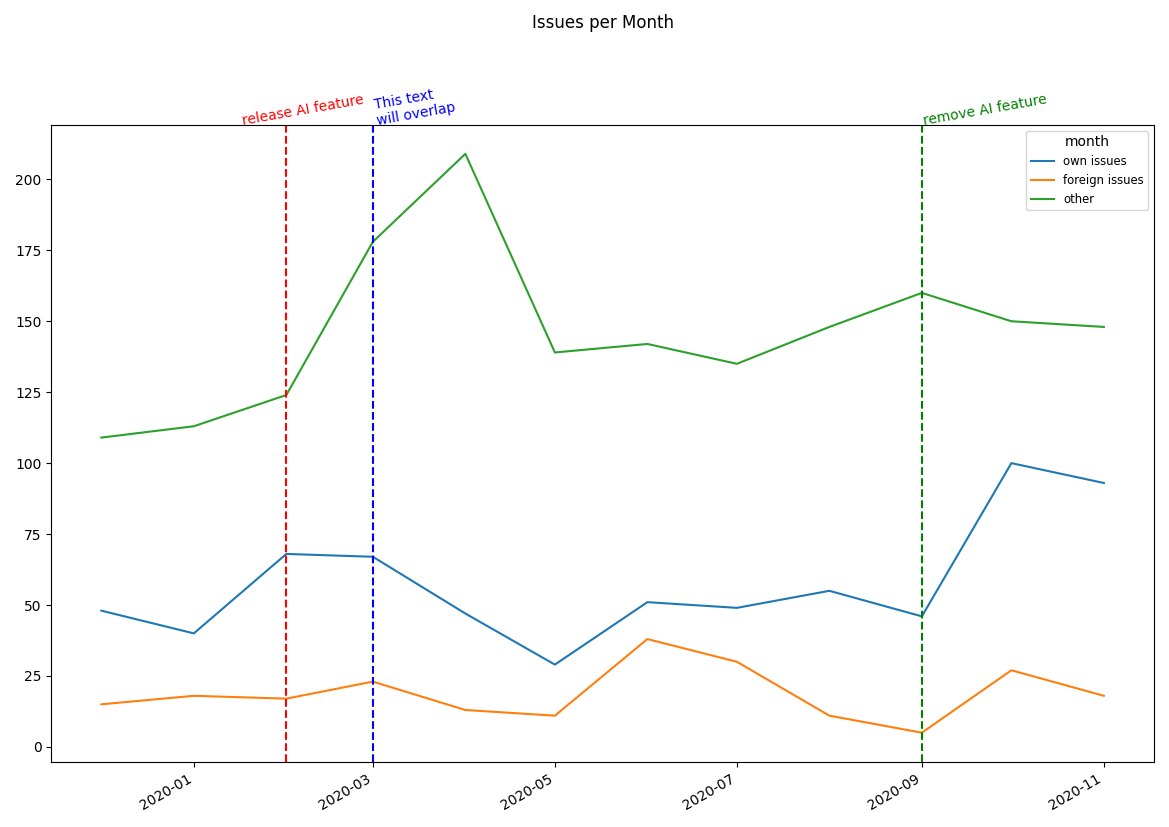
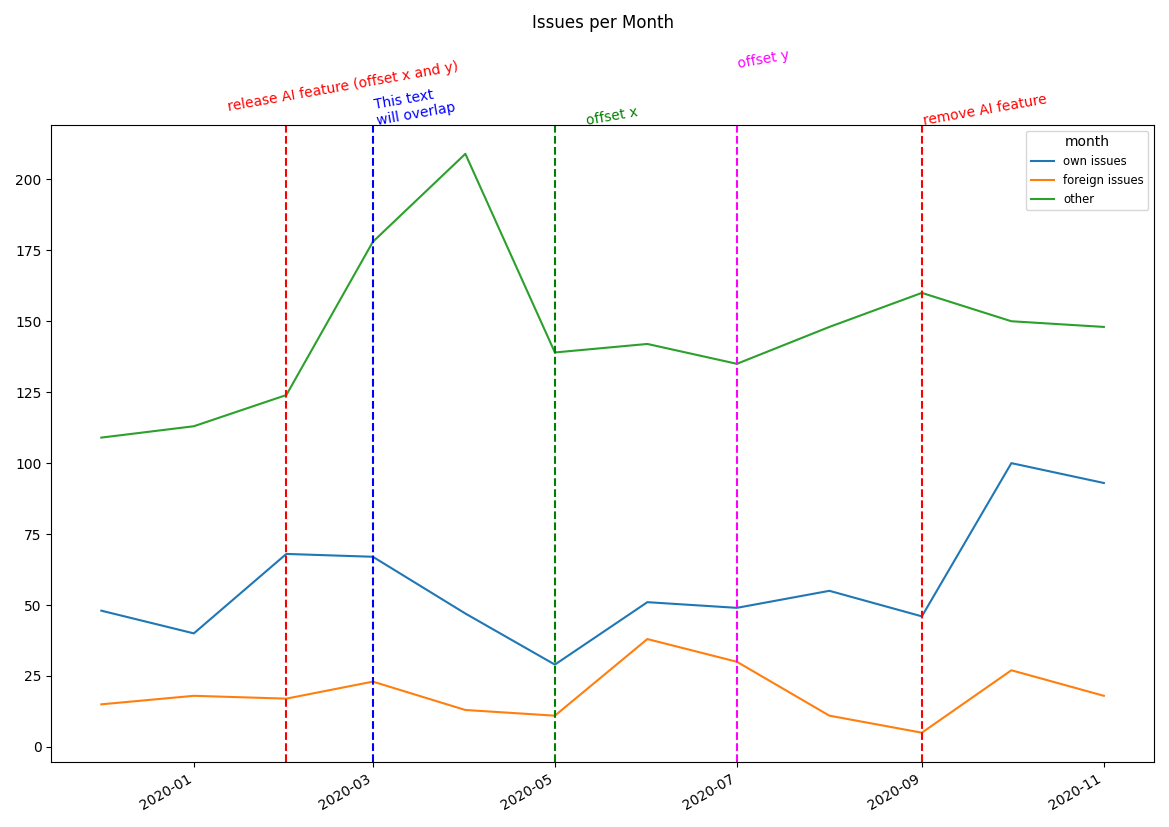
allow offset in x and y direction

diff --git a/README.md b/README.md
@@ -187,9 +187,10 @@ Command:
 
 If your text overlaps, you can define an offset.
 
-The offset applies in x direction in the scale of the date.
+The first offset applies in x direction in the scale of the date.
 (The dates are converted to a float representing dates in the unix epoche, 
 [see matplotlib.date2num](https://matplotlib.org/stable/api/dates_api.html#matplotlib.dates.date2num)).
+The second offset applies in y direction in the scale of the data.
 
 annotations_overlap.csv:
 ```csv
@@ -205,10 +206,11 @@ Command:
 
 annotations_offset.csv:
 ```csv
-2020-02,2020-03,2020-09,
-"release AI feature","This text
-will overlap","remove AI feature"
--15,,
+2020-02,2020-03,2020-05,2020-07,2020-09
+"release AI feature (offset x and y)","This text
+will overlap","offset x","offset y","remove AI feature"
+-20,,10,,
+5,,,20,
 ```
 Command: 
 ```shell
